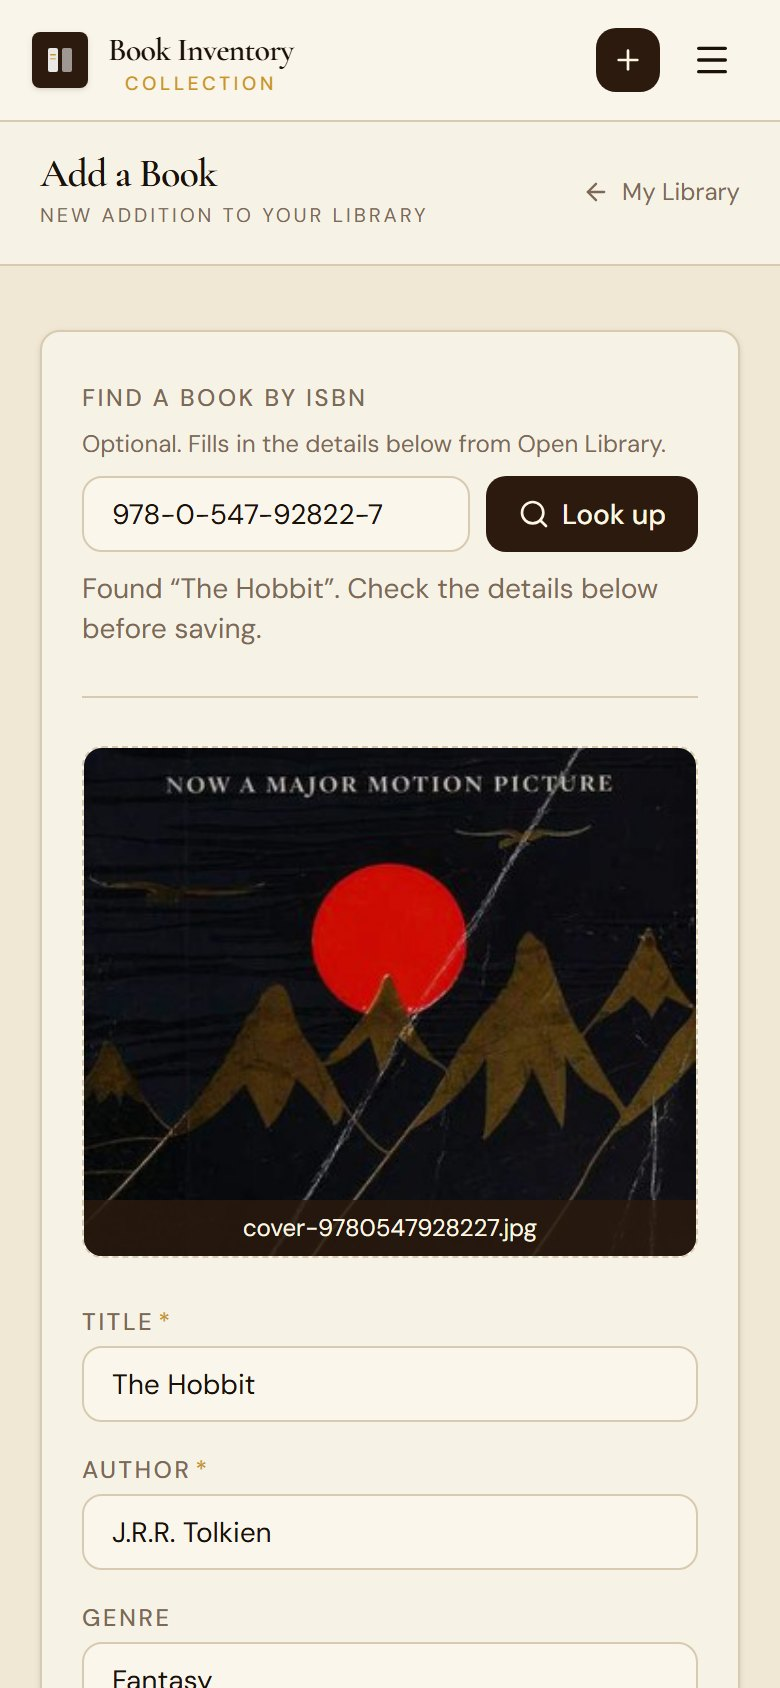
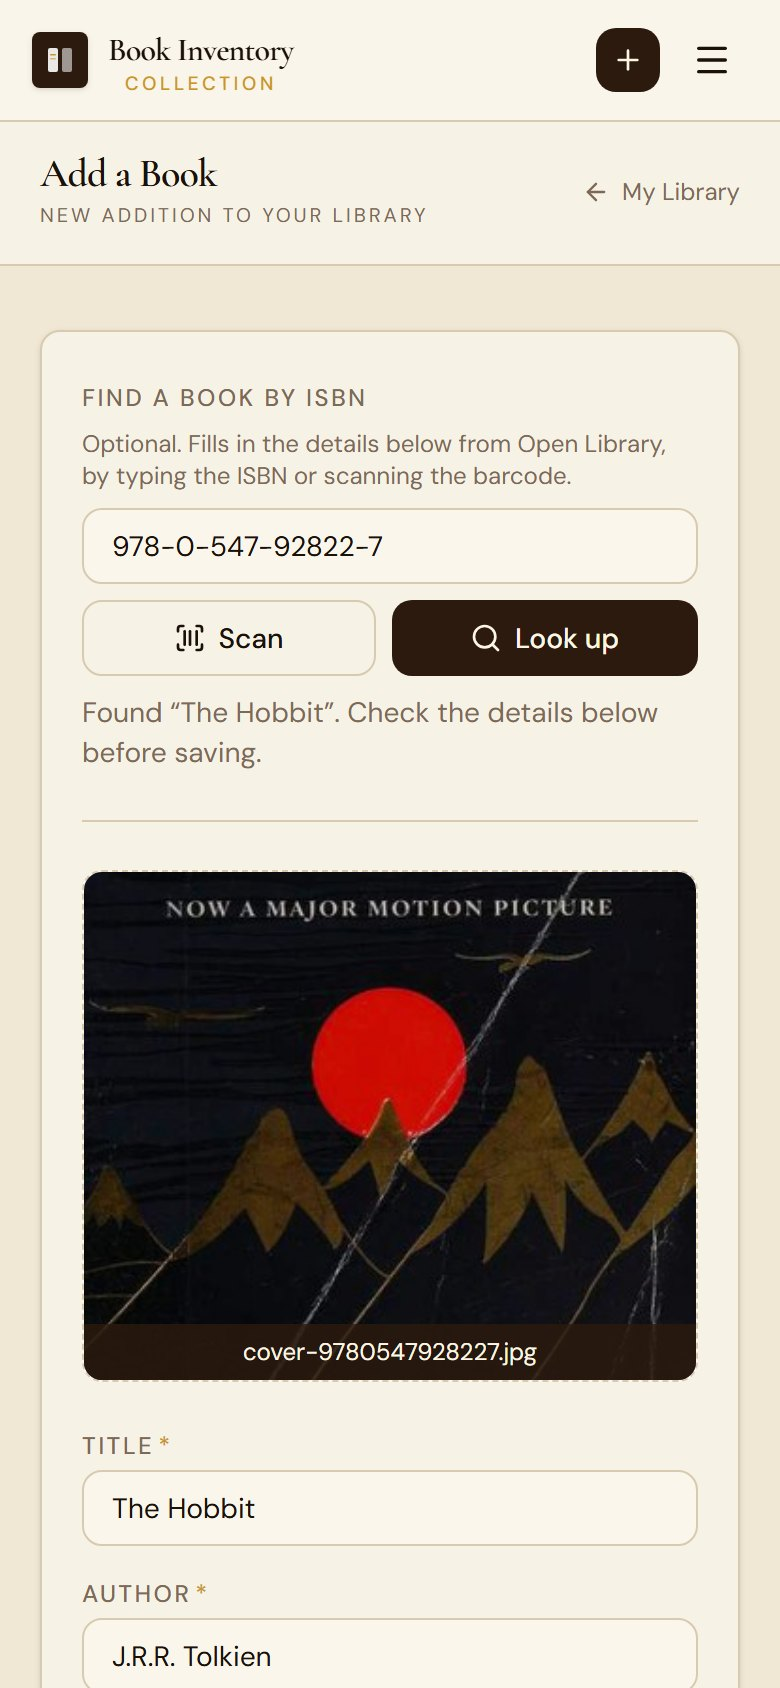
feat: scan a book's barcode with the camera to look it up
A Scan button next to the ISBN box opens the camera (the back one on a phone),
reads the EAN-13 barcode on the book, and runs the lookup.

- Uses the browser's own BarcodeDetector where it reads EAN-13 (Chrome on
  Android); elsewhere, including iPhone Safari and Windows, the barcode-detector
  polyfill with its zxing WebAssembly reader.
- The scanner and its 1.1 MB .wasm are loaded only when Scan is tapped, and the
  .wasm is bundled with the app instead of fetched from the polyfill's default
  CDN. barcode-detector and zxing-wasm are pinned to exact, matching versions,
  and a test fails if they ever drift apart. npm audit is unchanged.
- The camera is released on every way out: a read, Cancel, Escape, a click
  outside, and closing before the camera has finished starting.
- A blocked or missing camera gets a message that says what to do, and the
  button is hidden where no camera API exists (plain http).
- On phones the ISBN box gets its own row so all 13 digits show.

Checked in headless Edge with a fake camera showing a generated EAN-13 of The
Hobbit's ISBN, on the dev server and on a production build, through both the
native and the WebAssembly reader.

Changed region(s): [[0.0923, 0.2773, 0.8923, 1.0], [0.0923, 0.6161, 0.1846, 0.6469]]

diff --git a/client/src/components/books/IsbnLookup.jsx b/client/src/components/books/IsbnLookup.jsx
@@ -1,22 +1,29 @@
-import { useState } from "react";
-import { Search } from "lucide-react";
+import { lazy, Suspense, useState } from "react";
+import { ScanBarcode, Search } from "lucide-react";
 import { fetchCoverFile, lookupIsbn } from "@/utils/bookLookup.js";
+import { canScan } from "@/utils/barcode.js";
 
 const API_URL = import.meta.env.VITE_API_BOOKS_URL;
+
+// The camera view and the barcode reader are only downloaded when someone taps Scan
+const BarcodeScanner = lazy(() => import("@/components/books/BarcodeScanner.jsx"));
 
 // "Find a book by ISBN": fills the form below from Open Library. `onFound(book, coverFile)` gets the
 // details and the cover as a File (null if there is none or it couldn't be fetched).
 export default function IsbnLookup({ onFound }) {
   const [isbn, setIsbn] = useState("");
   const [busy, setBusy] = useState(false);
+  const [scanning, setScanning] = useState(false);
   const [message, setMessage] = useState({ kind: "", text: "" });
+  const [scanAvailable] = useState(canScan);
 
-  const search = async () => {
-    if (!isbn.trim() || busy) return;
+  const search = async (value) => {
+    const wanted = value.trim();
+    if (!wanted || busy) return;
     setBusy(true);
     setMessage({ kind: "", text: "" });
     try {
-      const book = await lookupIsbn(API_URL, isbn.trim());
+      const book = await lookupIsbn(API_URL, wanted);
       const cover = book.cover_url ? await fetchCoverFile(book.cover_url, book.isbn) : null;
       onFound(book, cover);
 
@@ -31,15 +38,23 @@ export default function IsbnLookup({ onFound }) {
     }
   };
 
+  // A barcode was read: close the camera, show the ISBN and look it up
+  const handleScanned = (scanned) => {
+    setScanning(false);
+    setIsbn(scanned);
+    search(scanned);
+  };
+
   return (
     <div className="mb-6 pb-6 border-b border-(--color-border)">
       <label htmlFor="isbn-lookup" className="text-xs font-medium tracking-widest uppercase text-(--color-muted-foreground)">
         Find a book by ISBN
       </label>
       <p className="text-xs text-(--color-muted-foreground) mt-1 mb-2">
-        Optional. Fills in the details below from Open Library.
+        Optional. Fills in the details below from Open Library{scanAvailable ? ", by typing the ISBN or scanning the barcode" : ""}.
       </p>
-      <div className="flex gap-2">
+      {/* Phones: the ISBN gets its own row so all 13 digits show, with the buttons below */}
+      <div className="flex flex-wrap sm:flex-nowrap gap-2">
         <input
           id="isbn-lookup"
           type="text"
@@ -51,12 +66,12 @@ export default function IsbnLookup({ onFound }) {
             // Enter should look the book up, not submit the whole form
             if (e.key === "Enter") {
               e.preventDefault();
-              search();
+              search(isbn);
             }
           }}
           placeholder="e.g. 978-0-547-92822-7"
           className="
-            flex-1 min-w-0
+            w-full sm:w-auto sm:flex-1 min-w-0
             bg-(--color-card) border border-(--color-border)
             text-(--color-foreground) text-sm
             rounded-(--radius) px-3.5 py-2
@@ -66,11 +81,23 @@ export default function IsbnLookup({ onFound }) {
             transition-colors
           "
         />
+        {scanAvailable && (
+          <button
+            type="button"
+            onClick={() => setScanning(true)}
+            disabled={busy}
+            aria-label="Scan a barcode with the camera"
+            className="flex-1 sm:flex-none justify-center inline-flex items-center gap-1.5 px-3 py-2 text-sm font-medium rounded-(--radius) border border-(--color-border) bg-(--color-surface) text-(--color-foreground) hover:border-(--color-border-strong) transition-colors disabled:opacity-50"
+          >
+            <ScanBarcode className="w-4 h-4" aria-hidden="true" />
+            Scan
+          </button>
+        )}
         <button
           type="button"
-          onClick={search}
+          onClick={() => search(isbn)}
           disabled={busy || !isbn.trim()}
-          className="btn-primary shrink-0 inline-flex items-center gap-1.5 text-sm disabled:opacity-50 disabled:cursor-not-allowed"
+          className="btn-primary flex-1 sm:flex-none justify-center inline-flex items-center gap-1.5 text-sm disabled:opacity-50 disabled:cursor-not-allowed"
         >
           <Search className="w-4 h-4" aria-hidden="true" />
           {busy ? "Looking up…" : "Look up"}
@@ -83,6 +110,12 @@ export default function IsbnLookup({ onFound }) {
           </p>
         )}
       </div>
+
+      {scanning && (
+        <Suspense fallback={null}>
+          <BarcodeScanner onDetected={handleScanned} onClose={() => setScanning(false)} />
+        </Suspense>
+      )}
     </div>
   );
 }

diff --git a/client/src/components/books/BarcodeScanner.jsx b/client/src/components/books/BarcodeScanner.jsx
@@ -1,0 +1,120 @@
+import { useEffect, useRef, useState } from "react";
+import { X } from "lucide-react";
+import { createBarcodeDetector, describeCameraError, isbnFromBarcodes } from "@/utils/barcode.js";
+
+// Full-screen camera view that reads a book's barcode. Calls onDetected(isbn13) once, then the
+// parent closes it, which also stops the camera.
+export default function BarcodeScanner({ onDetected, onClose }) {
+  const videoRef = useRef(null);
+  // The camera starts once; it should still call the latest onDetected the parent passed
+  const onDetectedRef = useRef(onDetected);
+  useEffect(() => {
+    onDetectedRef.current = onDetected;
+  });
+  const [message, setMessage] = useState("Starting the camera…");
+  const [failed, setFailed] = useState(false);
+
+  useEffect(() => {
+    let stopped = false;
+    let stream;
+    let timer;
+
+    (async () => {
+      try {
+        stream = await navigator.mediaDevices.getUserMedia({
+          video: { facingMode: { ideal: "environment" } }, // the back camera on a phone
+          audio: false,
+        });
+        if (stopped) {
+          // closed while the camera was still starting: release it, nobody else will
+          stream.getTracks().forEach((track) => track.stop());
+          return;
+        }
+        const video = videoRef.current;
+        video.srcObject = stream;
+        await video.play();
+        const detector = await createBarcodeDetector();
+        if (stopped) return;
+        setMessage("Point the camera at the barcode on the back of the book.");
+
+        const scan = async () => {
+          if (stopped) return;
+          try {
+            const isbn = isbnFromBarcodes(await detector.detect(video));
+            if (isbn) {
+              onDetectedRef.current(isbn);
+              return;
+            }
+          } catch {
+            // a frame that can't be read is skipped; the next one may be fine
+          }
+          timer = setTimeout(scan, 200);
+        };
+        scan();
+      } catch (err) {
+        if (stopped) return;
+        setFailed(true);
+        setMessage(describeCameraError(err));
+      }
+    })();
+
+    return () => {
+      stopped = true;
+      clearTimeout(timer);
+      stream?.getTracks().forEach((track) => track.stop());
+    };
+  }, []);
+
+  useEffect(() => {
+    const onKey = (e) => e.key === "Escape" && onClose();
+    document.addEventListener("keydown", onKey);
+    return () => document.removeEventListener("keydown", onKey);
+  }, [onClose]);
+
+  return (
+    <div
+      role="dialog"
+      aria-modal="true"
+      aria-label="Scan a barcode"
+      className="fixed inset-0 z-50 flex items-center justify-center bg-black/70 p-4"
+      onClick={onClose}
+    >
+      <div
+        className="relative w-full max-w-md bg-(--color-surface) rounded-(--radius) shadow-lg border border-(--color-border) overflow-hidden"
+        onClick={(e) => e.stopPropagation()}
+      >
+        <button
+          type="button"
+          onClick={onClose}
+          aria-label="Close scanner"
+          className="absolute top-2 right-2 z-10 p-1.5 rounded-full bg-black/50 text-white hover:bg-black/70 transition-colors"
+        >
+          <X size={18} />
+        </button>
+
+        <div className="relative bg-black aspect-[4/3]">
+          <video ref={videoRef} playsInline muted className="w-full h-full object-cover" />
+          {!failed && (
+            // a guide for lining the barcode up
+            <div aria-hidden="true" className="absolute inset-x-[10%] top-1/2 -translate-y-1/2 h-[28%] border-2 border-white/80 rounded-md">
+              <div className="absolute inset-x-0 top-1/2 h-0.5 bg-red-500/80" />
+            </div>
+          )}
+        </div>
+
+        <div className="p-4 text-center">
+          <p role={failed ? "alert" : "status"} className={`text-sm ${failed ? "text-red-700" : "text-(--color-muted-foreground)"}`}>
+            {message}
+          </p>
+          <button
+            type="button"
+            onClick={onClose}
+            className="mt-3 px-4 py-2 text-sm rounded-(--radius) font-medium bg-(--color-muted) text-(--color-foreground) hover:bg-(--color-border) transition-colors"
+          >
+            {failed ? "Close" : "Cancel"}
+          </button>
+        </div>
+      </div>
+    </div>
+  );
+}

diff --git a/client/src/utils/barcode.test.js b/client/src/utils/barcode.test.js
@@ -1,0 +1,87 @@
+import { afterEach, describe, it } from "node:test";
+import assert from "node:assert/strict";
+import { readFileSync } from "node:fs";
+import { canScan, createBarcodeDetector, describeCameraError, isbnFromBarcodes } from "./barcode.js";
+
+const read = (path) => JSON.parse(readFileSync(new URL(path, import.meta.url), "utf8"));
+
+function setGlobal(name, value) {
+  Object.defineProperty(globalThis, name, { value, configurable: true, writable: true });
+}
+
+afterEach(() => {
+  delete globalThis.BarcodeDetector;
+  delete globalThis.navigator;
+});
+
+describe("isbnFromBarcodes", () => {
+  it("picks the book barcode (an EAN-13 starting 978 or 979)", () => {
+    assert.equal(isbnFromBarcodes([{ rawValue: "9780547928227" }]), "9780547928227");
+    assert.equal(isbnFromBarcodes([{ rawValue: "9791032305690" }]), "9791032305690");
+  });
+
+  it("ignores barcodes that are not ISBNs", () => {
+    const others = [{ rawValue: "5012345678900" }, { rawValue: "51995" }, { rawValue: "0547928220" }, { rawValue: "97805479282270" }];
+    assert.equal(isbnFromBarcodes(others), null);
+    assert.equal(isbnFromBarcodes([]), null);
+  });
+
+  it("finds the book barcode among others, such as the price add-on printed beside it", () => {
+    assert.equal(isbnFromBarcodes([{ rawValue: "51995" }, { rawValue: "9780547928227" }]), "9780547928227");
+  });
+});
+
+describe("describeCameraError", () => {
+  it("explains what to do for each kind of failure", () => {
+    assert.match(describeCameraError({ name: "NotAllowedError" }), /blocked/);
+    assert.match(describeCameraError({ name: "SecurityError" }), /blocked/);
+    assert.match(describeCameraError({ name: "NotFoundError" }), /No camera/);
+    assert.match(describeCameraError({ name: "NotReadableError" }), /another app/);
+    assert.match(describeCameraError(new Error("???")), /couldn’t be started/);
+    assert.match(describeCameraError(undefined), /couldn’t be started/);
+  });
+
+  it("always offers typing the ISBN as the way out", () => {
+    for (const name of ["NotAllowedError", "NotFoundError", "NotReadableError", "Other"]) {
+      assert.match(describeCameraError({ name }), /type the ISBN/i);
+    }
+  });
+});
+
+describe("canScan", () => {
+  it("is true only where the browser can open a camera", () => {
+    setGlobal("navigator", {});
+    assert.equal(canScan(), false);
+    setGlobal("navigator", { mediaDevices: { getUserMedia() {} } });
+    assert.equal(canScan(), true);
+  });
+});
+
+describe("createBarcodeDetector", () => {
+  it("uses the browser's own detector when it reads EAN-13", async () => {
+    let options;
+    setGlobal("BarcodeDetector", class {
+      static getSupportedFormats() { return Promise.resolve(["qr_code", "ean_13"]); }
+      constructor(given) { options = given; }
+    });
+
+    const detector = await createBarcodeDetector();
+
+    assert.ok(detector instanceof globalThis.BarcodeDetector);
+    assert.deepEqual(options, { formats: ["ean_13"] });
+  });
+});
+
+describe("the bundled barcode reader", () => {
+  it("uses the exact zxing-wasm version that barcode-detector was built against", () => {
+    // barcode-detector loads the WebAssembly file we serve (see utils/barcode.js). If the JS and
+    // the .wasm come from different versions, scanning breaks without any build error.
+    const ours = read("../../package.json");
+    const detector = read("../../node_modules/barcode-detector/package.json");
+    const wasm = read("../../node_modules/zxing-wasm/package.json");
+
+    assert.equal(ours.dependencies["zxing-wasm"], detector.dependencies["zxing-wasm"]);
+    assert.equal(wasm.version, detector.dependencies["zxing-wasm"]);
+    assert.match(ours.dependencies["zxing-wasm"], /^\d+\.\d+\.\d+$/, "must be an exact version, not a range");
+  });
+});

diff --git a/client/src/utils/barcode.js b/client/src/utils/barcode.js
@@ -1,0 +1,47 @@
+// A barcode detector that works in this browser. Chrome on Android (and some desktops) have one
+// built in; elsewhere (iPhone Safari, Windows) a WebAssembly one stands in. It is loaded only when
+// someone scans, so the ~1 MB file costs nothing otherwise, and it is served with the app instead
+// of from a CDN.
+export async function createBarcodeDetector() {
+  const native = globalThis.BarcodeDetector;
+  if (native) {
+    const formats = (await native.getSupportedFormats?.()) ?? ["ean_13"];
+    if (formats.includes("ean_13")) return new native({ formats: ["ean_13"] });
+  }
+
+  const [{ BarcodeDetector, setZXingModuleOverrides }, { default: wasmUrl }] = await Promise.all([
+    import("barcode-detector/ponyfill"),
+    import("zxing-wasm/reader/zxing_reader.wasm?url"),
+  ]);
+  setZXingModuleOverrides({
+    locateFile: (path, prefix) => (path.endsWith(".wasm") ? wasmUrl : prefix + path),
+  });
+  return new BarcodeDetector({ formats: ["ean_13"] });
+}
+
+// The ISBN-13 among the barcodes a detector found. A book's barcode is an EAN-13 that starts 978 or 979.
+export function isbnFromBarcodes(barcodes) {
+  const found = barcodes.find((barcode) => /^97[89]\d{10}$/.test(barcode.rawValue));
+  return found ? found.rawValue : null;
+}
+
+// A message a person can act on when the camera can't be started.
+export function describeCameraError(error) {
+  switch (error?.name) {
+    case "NotAllowedError":
+    case "SecurityError":
+      return "Camera access was blocked. Allow it in your browser’s site settings, or type the ISBN instead.";
+    case "NotFoundError":
+    case "OverconstrainedError":
+      return "No camera was found on this device. Type the ISBN instead.";
+    case "NotReadableError":
+      return "The camera is being used by another app. Close it and try again, or type the ISBN instead.";
+    default:
+      return "The camera couldn’t be started. Type the ISBN instead.";
+  }
+}
+
+// Scanning needs a camera and a secure page (https or localhost); without them the button is hidden.
+export function canScan() {
+  return typeof navigator !== "undefined" && Boolean(navigator.mediaDevices?.getUserMedia);
+}

diff --git a/README.md b/README.md
@@ -27,7 +27,7 @@ A full-stack web app for managing a personal book collection. Browse and search 
 - **Search, filter, sort and page** through the collection: search by title or author, filter by genre, and sort by title, author, year or date added. All of it runs on the server, which returns the books 8 per page, so the list stays fast as the collection grows.
 - **Book details** in a modal: cover, author, genre, release year and description.
 - **Add, edit and delete** books, including cover image upload and a delete confirmation step.
-- **Add a book by ISBN**: type or paste an ISBN-10 or ISBN-13 and the form fills in the title, author, year, a suggested genre, the description and the cover from [Open Library](https://openlibrary.org) (no API key). The ISBN's check digit is verified first, answers are cached, and lookups are rate limited. The browser fetches the cover and uploads it like any picked file, so it goes through the same 5 MB check and ends up in your own Cloudinary storage.
+- **Add a book by ISBN**: type an ISBN-10 or ISBN-13, or **scan the barcode with the phone's camera**, and the form fills in the title, author, year, a suggested genre, the description and the cover from [Open Library](https://openlibrary.org) (no API key). The ISBN's check digit is verified first, answers are cached, and lookups are rate limited. The browser fetches the cover and uploads it like any picked file, so it goes through the same 5 MB check and ends up in your own Cloudinary storage. Scanning uses the browser's built-in barcode reader where there is one (Chrome on Android) and a WebAssembly reader everywhere else (including iPhone Safari), served with the app and only downloaded when you tap Scan.
 - **JWT authentication** with a 60-minute access token. Reading books is public; creating, editing and deleting require a valid token and are enforced by the API, not just the UI. Signed-out visitors don't see the Add, Edit or Delete controls, and an expired session sends you back to the sign-in page.
 - **Upload and login limits**: cover images are capped at 5 MB (checked in the browser and again on the server), and sign-in attempts are limited to 5 per minute and 30 per hour per IP address.
 - **Interactive API docs**: an OpenAPI schema generated from the code, with Swagger UI at `/api/docs/` to try the endpoints (including signed-in ones).
